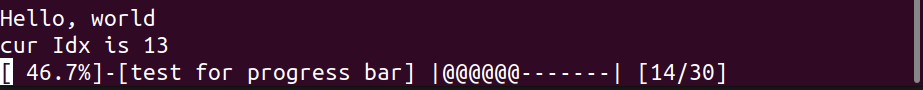
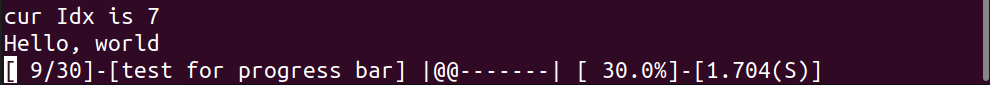
add time

diff --git a/src/include/progress_bar.hpp b/src/include/progress_bar.hpp
@@ -2,6 +2,7 @@
 #define PROGRESS_BAR_H
 
 #include <algorithm>
+#include <chrono>
 #include <functional>
 #include <iomanip>
 #include <iostream>
@@ -47,7 +48,7 @@ namespace ns_pbar {
   class ProgressBar {
   private:
     // Total number of tasks
-    const std::size_t _taskCount;
+    const unsigned short _taskCount;
     // the description for these tasks
     const std::string _desc;
 
@@ -55,23 +56,26 @@ namespace ns_pbar {
     const BarColor _fillColor;
     // the progress bar color [empty]
     const BarColor _emptyColor;
-
     // the output stream
     std::ostream *_os;
 
+    // inner parameters
+    // if thw progress bar is released
     bool _isReleased;
+    // used to clear the last progress bar
+    unsigned short _lastProgressBarWidth;
 
-    std::size_t _lastProgressBarWidth;
+    const double _startTimePoint;
 
   public:
     /**
      * @brief Construct a new Progress Bar object
      */
-    ProgressBar(std::size_t taskCount, const std::string &desc = "New Task",
+    ProgressBar(unsigned short taskCount, const std::string &desc = "New Task",
                 BarColor fillColor = BarColor::WHITE, BarColor emptyColor = BarColor::NONE,
                 std::ostream &os = std::clog)
         : _taskCount(taskCount), _desc(desc), _fillColor(fillColor), _emptyColor(emptyColor),
-          _os(&os), _isReleased(false) {}
+          _os(&os), _isReleased(false), _startTimePoint(ProgressBar::curTime()) {}
 
     /**
      * @brief Destroy the Progress Bar object
@@ -98,7 +102,7 @@ namespace ns_pbar {
      * @param fun the function to
      * @return ProgressBar&
      */
-    ProgressBar &update(std::size_t idx, const std::function<void()> &fun) {
+    ProgressBar &update(unsigned short idx, const std::function<void()> &fun) {
       this->clear();
       fun();
       this->show(idx);
@@ -108,28 +112,20 @@ namespace ns_pbar {
     /**
      * @brief get the task count for the progress bar
      */
-    std::size_t taskCount() const {
+    unsigned short taskCount() const {
       return this->_taskCount;
     }
 
     /**
      * @brief print next progress bar, it's called when a task is done usually
      */
-    ProgressBar &show(std::size_t idx) {
+    ProgressBar &show(unsigned short idx) {
       if (this->_isReleased) {
         return *this;
       }
       idx += 1;
       this->checkIdx(idx);
-      std::size_t progressBarWidth = ProgressBar::winWidth() * 0.8;
-      // percent
-
-      double curPercent = static_cast<double>(idx) / this->_taskCount;
-      std::stringstream stream;
-      stream << std::fixed << std::setprecision(1) << curPercent * 100.0;
-      std::string curPercentStr;
-      stream >> curPercentStr;
-      std::string percentStr = '[' + std::string(5 - curPercentStr.size(), ' ') + curPercentStr + "%]";
+      unsigned short progressBarWidth = ProgressBar::winWidth() * 0.7;
 
       // task count
       auto taskCountStrSize = std::to_string(this->_taskCount).size();
@@ -138,19 +134,34 @@ namespace ns_pbar {
                                  std::to_string(idx) + "/" +
                                  std::to_string(this->_taskCount) + ']';
 
+      // percent
+      double curPercent = static_cast<double>(idx) / this->_taskCount;
+      std::stringstream stream;
+      stream << std::fixed << std::setprecision(1) << curPercent * 100.0;
+      std::string curPercentStr;
+      stream >> curPercentStr;
+      std::string percentStr = '[' + std::string(5 - curPercentStr.size(), ' ') + curPercentStr + "%]";
+
+      // time
+      stream = std::stringstream();
+      stream << std::fixed << std::setprecision(3) << ProgressBar::curTime() - _startTimePoint;
+      std::string timeCostStr;
+      stream >> timeCostStr;
+      timeCostStr = "-[" + timeCostStr + "(S)]";
+
 #if (defined __linux__) && (defined PROGRESS_COLOR_BAR)
       // bar
-      std::size_t barWidth = progressBarWidth - percentStr.size() - 4 - taskCountStrSize * 2 - 3;
-      std::size_t fillWidth = barWidth * curPercent;
-      std::size_t emptyWidth = barWidth - fillWidth;
+      unsigned short barWidth = progressBarWidth - percentStr.size() - 4 - taskCountStrSize * 2 - 3;
+      unsigned short fillWidth = barWidth * curPercent;
+      unsigned short emptyWidth = barWidth - fillWidth;
 
       std::string fillStr = std::string(fillWidth, ' ');
       std::string emptyStr = std::string(emptyWidth, ' ');
 
       if (_desc.size() <= barWidth) {
 
-        std::size_t descStartPos = (barWidth - _desc.size()) / 2;
-        std::size_t descEndPos = descStartPos + _desc.size();
+        unsigned short descStartPos = (barWidth - _desc.size()) / 2;
+        unsigned short descEndPos = descStartPos + _desc.size();
 
         // replace for the '_desc'
         if (descStartPos > fillStr.size()) {
@@ -170,25 +181,25 @@ namespace ns_pbar {
 
       std::string progressBarStr = ProgressBar::colorFlag(this->_fillColor) + "\033[3m" + fillStr + ProgressBar::colorFlag(BarColor::NONE) +
                                    ProgressBar::colorFlag(this->_emptyColor) + "\033[3m" + emptyStr + ProgressBar::colorFlag(BarColor::NONE);
-
-      this->printBar(percentStr + " |" + progressBarStr + "| " + taskCountStr, idx);
+      this->printBar(taskCountStr + " |" + progressBarStr + "| " + percentStr + timeCostStr);
 #else
       // bar
       int barWidth = progressBarWidth - percentStr.size() - 4 - taskCountStrSize * 2 - 3 - _desc.size() - 3;
       // if left char size is small, than add more.
       if (barWidth < 5)
         barWidth = 5;
-      std::size_t fillWidth = barWidth * curPercent;
-      std::size_t emptyWidth = barWidth - fillWidth;
+      unsigned short fillWidth = barWidth * curPercent;
+      unsigned short emptyWidth = barWidth - fillWidth;
 
       std::string fillStr = std::string(fillWidth, '@');
       std::string emptyStr = std::string(emptyWidth, '-');
       std::string progressBarStr = fillStr + emptyStr;
       std::string descStr = "-[" + _desc + ']';
 
-      this->printBar(percentStr + descStr + " |" + progressBarStr + "| " + taskCountStr, idx);
+      this->printBar(taskCountStr + descStr + " |" + progressBarStr + "| " + percentStr + timeCostStr);
 #endif
 
+      _lastProgressBarWidth = progressBarWidth + timeCostStr.size();
       return *this;
     }
 
@@ -207,7 +218,7 @@ namespace ns_pbar {
     /**
      * @brief check the current task index
      */
-    void checkIdx(std::size_t idx) const {
+    void checkIdx(unsigned short idx) const {
       if (idx > this->_taskCount) {
         THROW_EXCEPTION(checkIdx, "the index is out of range. ['curTaskIdx' > 'taskCount'].");
       }
@@ -219,8 +230,7 @@ namespace ns_pbar {
      *
      * @param barStr
      */
-    void printBar(const std::string &barStr, std::size_t idx) {
-      _lastProgressBarWidth = barStr.size();
+    void printBar(const std::string &barStr) {
       *(this->_os) << barStr << '\r' << std::flush;
       return;
     }
@@ -246,6 +256,11 @@ namespace ns_pbar {
      */
     static std::string colorFlag(int color) {
       return "\033[" + std::to_string(color) + "m";
+    }
+
+    static double curTime() {
+      auto time = std::chrono::system_clock::now().time_since_epoch();
+      return std::chrono::duration_cast<std::chrono::duration<double>>(time).count();
     }
   };
 #undef THROW_EXCEPTION

diff --git a/src/main.cpp b/src/main.cpp
@@ -1,10 +1,10 @@
-// #define PROGRESS_COLOR_BAR
+#define PROGRESS_COLOR_BAR
 #include "progress_bar.hpp"
 #include <thread>
 
 int main(int argc, char const *argv[]) {
   try {
-    ns_pbar::ProgressBar bar(30, "test for progress bar");
+    ns_pbar::ProgressBar bar(30, "test for progress bar", ns_pbar::GREEN, ns_pbar::LIGHT_BLUE);
     for (int i = 0; i != 30; ++i) {
       // way 1
       std::this_thread::sleep_for(std::chrono::milliseconds(100));

diff --git a/readme.md b/readme.md
@@ -16,7 +16,7 @@ code:
 
 <img src="./output/code.png">
 
-output
+output:
 
 <img src="./output/charset.png">
 
@@ -27,6 +27,12 @@ output
 <img src="./output/red_light_yellow.png">
 
 ## 3. Apis
+
+the macro below controls the color, if this macro defined, the progress bar will be printed with color.
+
+```cpp
+#define PROGRESS_COLOR_BAR
+```
 
 ```cpp
 enum BarColor : int {
